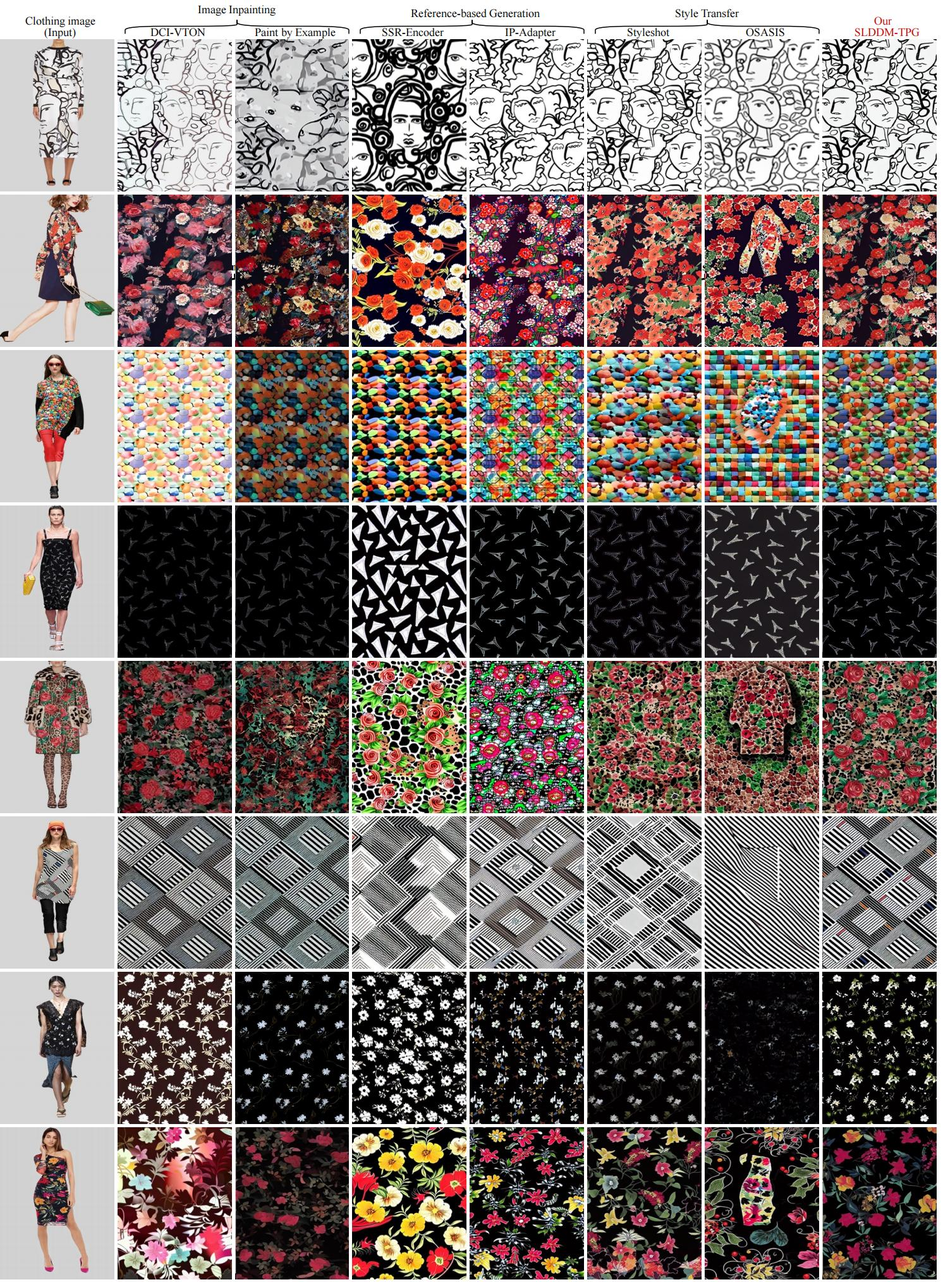
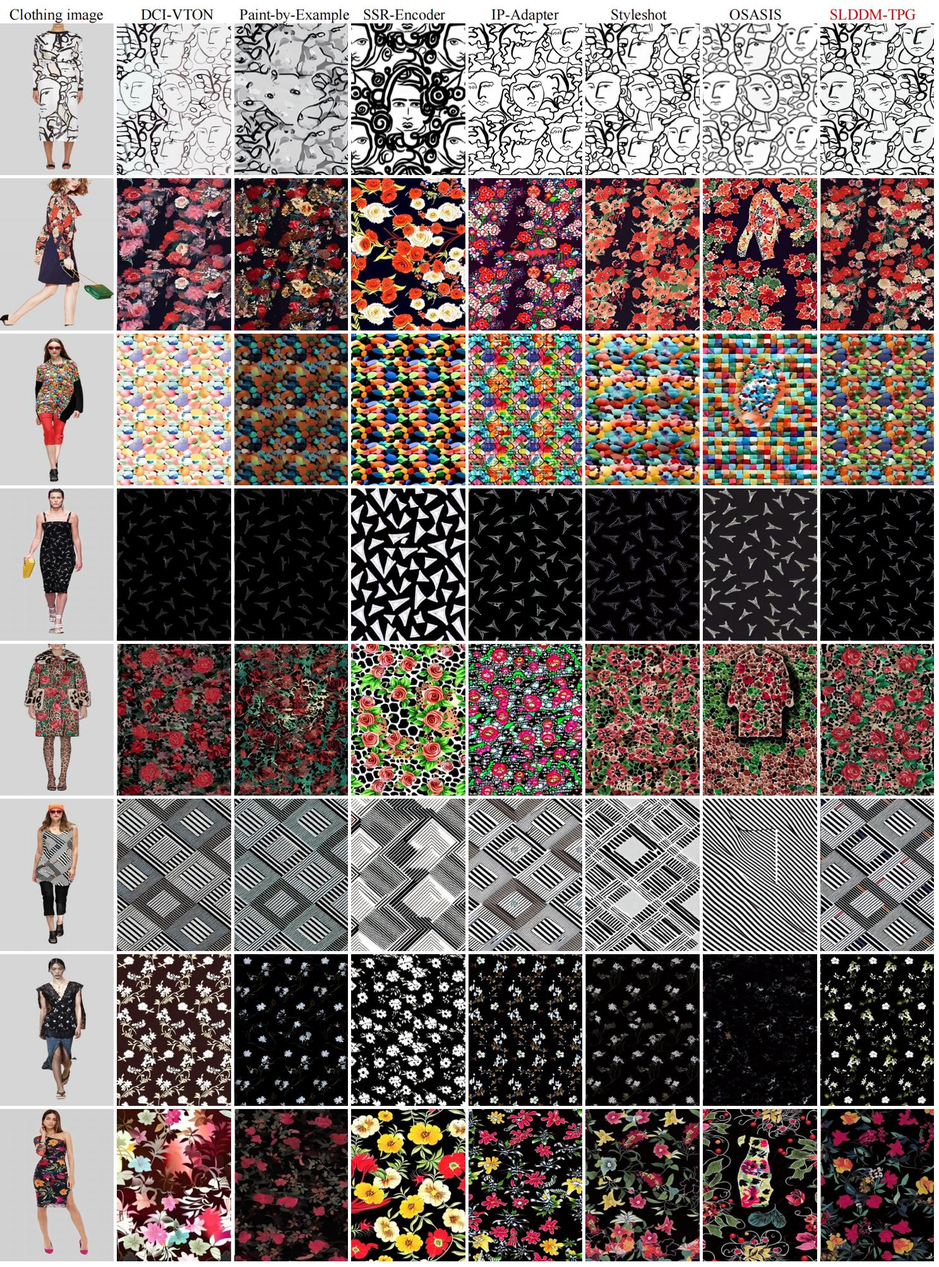
readme

diff --git a/README.md b/README.md
@@ -1,4 +1,4 @@
-# **SLDDM-TPG: Semi-supervised Latent Disentangled Diffusion Model for Textile Pattern Generation**
+# **Semi-supervised Latent Disentangled Diffusion Model for Textile Pattern Generation**
 
 ## **🕮 Title Description**
 
@@ -6,7 +6,7 @@
 
 **Disentangled**: Due to the non-rigid nature of clothing images, texture defects—such as *deformations*, *blurriness*, and *occlusions*—as well as artifacts introduced by natural photography, often lead to feature confusion (feature entanglement). Therefore, it is essential to disentangle the feature representations of clothing images.
 
-**Semi-supervised**: We construct the CTP-HD dataset, which contains both labeled and unlabeled samples, where the labels correspond to ground-truth textile pattern images. To enable semi-supervised learning, we introduce novel modules and training strategies that extend the original latent diffusion model (LDM).
+**Semi-supervised**: We construct the CTP-HD dataset, which contains both labeled and unlabeled samples, where the labels correspond to ground-truth textile pattern images. To enable semi-supervised learning, we introduce novel modules and training strategies, such as alignment process, CLS module, STD loss and so on, that extend the original latent diffusion model.
 
 ## **🎞 Compared Cases**
 
@@ -49,9 +49,9 @@
 
 ## **📥 Installation**
 
-**Create conda environment**
+### **Create conda environment**
 
-```
+```python
 conda env create -f environment.yaml
 conda activate slddm
 ```
@@ -156,13 +156,13 @@ python test.py --gpu_id 0 \
 --W 512 \
 ```
 
-## More Experiments (Details In our Supplementary Material)
+## More Experiments (Details in Our Appendix)
 
 ### User Study
 
-We conduct a user study to assess the fidelity of images generated by SLDDM-TPG and other baselines. As show in the table below, SLDDM-TPG achieved the highest support across all settings.
+Here, we conduct a user study to evaluate the quality of the images generated by our SLDDM-TPG and other baselines. All the models use the same seed during our user study. We selected 100 clothing images of different styles and content, and used these baseline models to generate corresponding textile pattern images. The order of the models is shuffled and the participants were not informed which images are generated by some certain model for a fair comparison. We asked 35 participants rated the similarity score between the generated image and the clothing image based on three evaluation criteria: (1) Overall visual similarity (40%); (2) Content object property details (40%); (3) Clarity (20%).
 
-To further validate content accuracy, GPT-4 was used to generate descriptive prompts highlighting fine-grained elements (e.g., content objects in blue). Users re-evaluated score on both visual judgment and the generated text prompts. SLDDM-TPG consistently maintained or improved its support rate, confirming its advantage in reconstructing fine-grained content details (see Fig.~\ref{fig:userstudy}).
+To further validate content accuracy, GPT-4 was used to generate descriptive prompts highlighting fine-grained elements (e.g., content objects in blue). Users re-evaluated score on both visual judgment and the generated text prompts. SLDDM-TPG consistently maintained or improved its support rate, confirming its advantage in reconstructing fine-grained content details (see the figure and table below).
 
 <!-- <img src="assets/image3.png" alt="image.png" style="display: block; margin: auto;zoom: 50%;" width="350px"/> -->
 <img src="assets/user_study.png" alt="image.png" style="display: block; margin: auto;zoom: 70%;"/>
@@ -179,7 +179,7 @@ Although our method neither achieves the fastest inference nor the minimal param
 
 ### Limitation and badcases
 
-While our SLDDM-TPG outperforms other methods in generating faithful and high-quality textile pattern images conditioned on clothing images, it still struggles with complex patterns or low-quality, small-area reference clothing images, as shown in the figure below. This may be because there are not enough complex samples in our training data or because our model's disentangled ability does not perform well on complex samples.
+While our SLDDM-TPG outperforms other baselines and can generate faithful and high-quality pattern images based on clothing images, it still struggles with extracting accurate representations of complex content patterns from reference clothing images, especially the low-quality, small-area images, as shown in Figure below. This may be because there are not enough complex samples in our training data or because our model's disentangled ability does not perform well on complex samples. In future work, we plan to expand our labeled dataset and optimize the integration of disentangled features into the diffusion model for better fine-tuning to get more complex content generation from clothing images.
 
 <!-- <img src="assets/image5.png" alt="image.png" style="display: block; margin: auto;zoom: 40%;" width="400px"/> -->
 <img src="assets/badcases.png" alt="badcases.png" style="display: block; margin: auto;zoom: 50%;"/>
